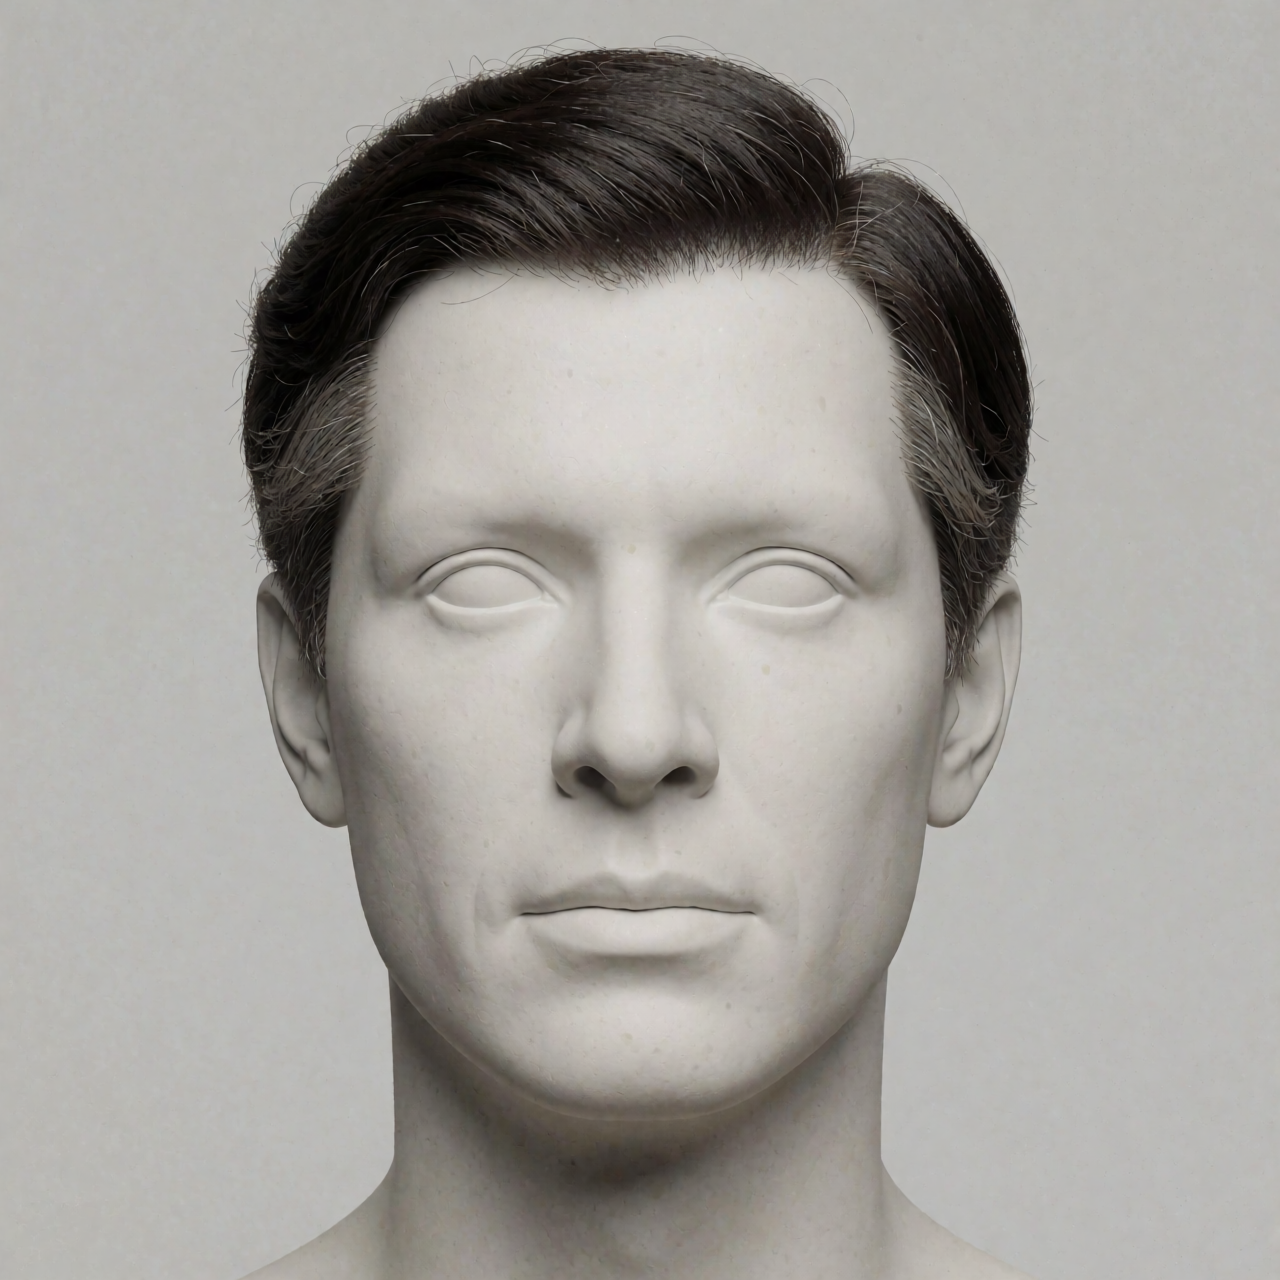
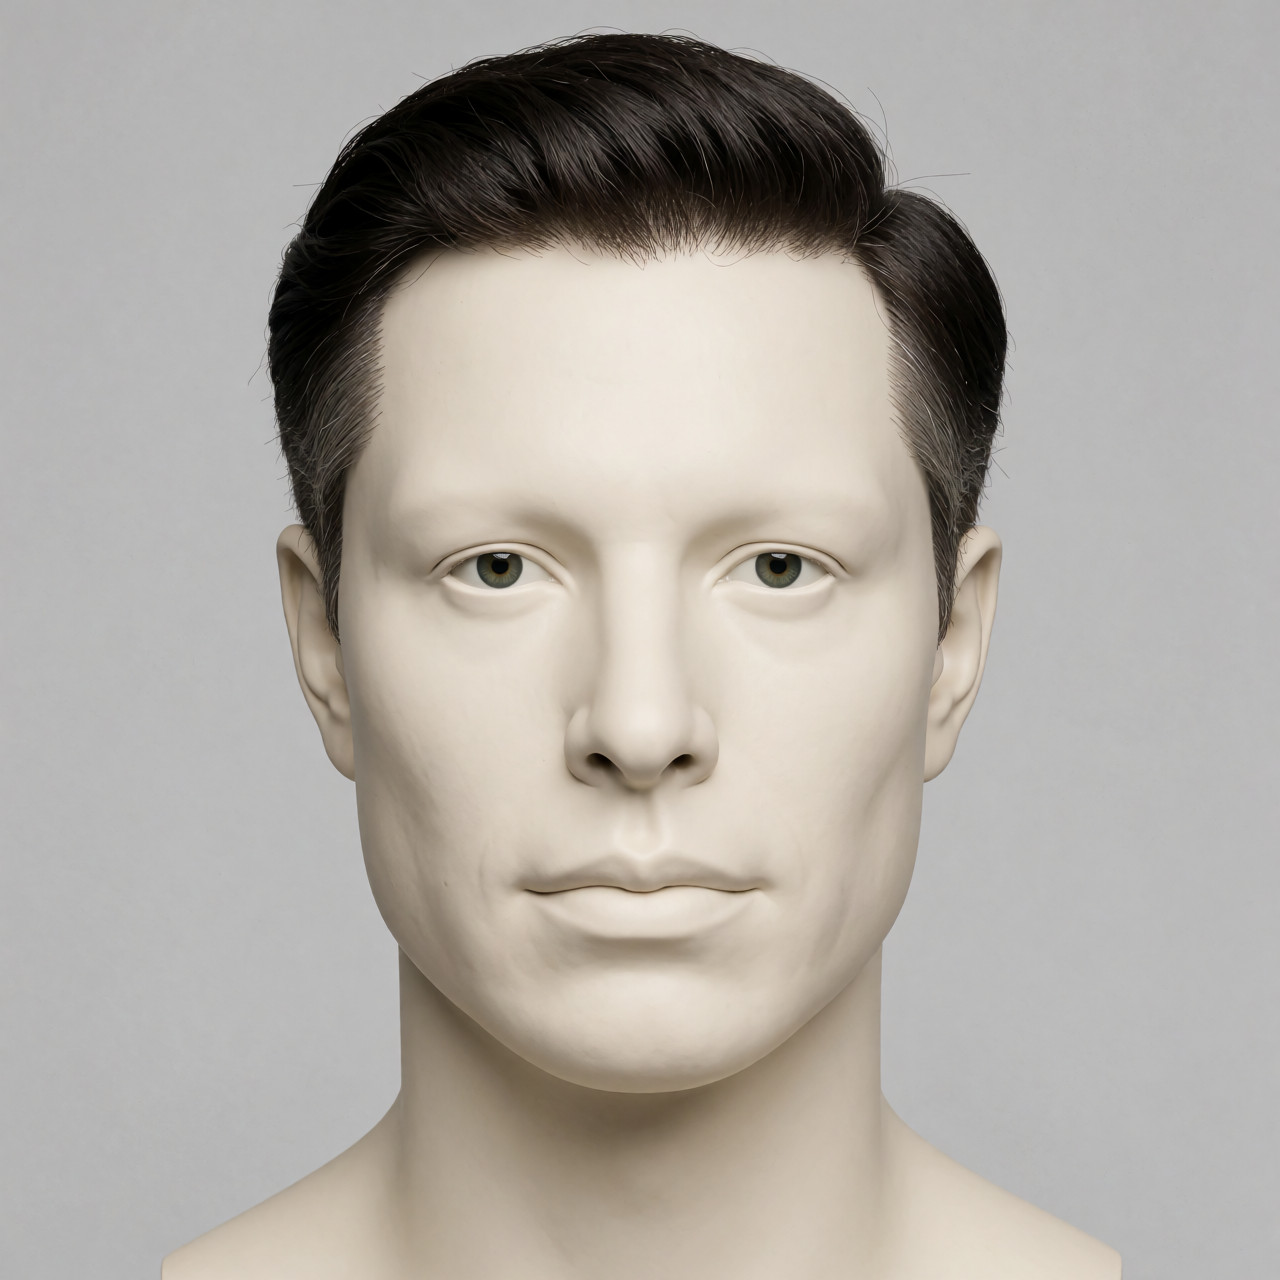
feat(v1.11.0): mannequin real-face method canonical (real photo ref -> porcelain mannequin matching ref) + YouTube setup adds channel email as test user

Changed region(s): [[0.125, 0.0, 0.875, 1.0]]

diff --git a/system_breakers.py b/system_breakers.py
@@ -4244,60 +4244,69 @@ CHAR_PANEL_W, CHAR_PANEL_H = 1280, 1280
 CHAR_PANEL_VIEWS = ["face", "face_side", "face_back",
                     "body_front", "body_side", "body_back"]
 
-# Mannequin-style panels (NO image ref - high prompt adherence over identity).
-# Each is generated as a pure text-to-image with the person's HAIR described
-# as TEXT (via _describe_hair_text) + the mannequin descriptor injected. The
-# porcelain face is fully prompt-controlled; only the hair carries over from
-# the real person. (view, ref_src, denoise, prompt-template, method)
+# Mannequin-style panels - REAL-FACE method (canonical, Joe-approved 2026-08-06):
+# Use the real person's photo as the ONE identity ref (krea2edit identity mode)
+# but render the result as a glossy PORCELAIN mannequin whose facial features
+# (bone structure, brow, nose, lips, jaw) match the ref EXACTLY. The face reads
+# as a polished museum mannequin that strongly resembles the person - not
+# realistic human skin. Hair is coloured and matches the ref. When NO real
+# photo exists, fall back to text-only hair injection (_describe_hair_text).
+# (view, ref_src, denoise, prompt-template, method)
 MANNEQUIN_PANELS = [
-    ("face", "txt", 1.0,
-     "Close-up portrait of a seamless glossy porcelain mannequin head and "
-     "face, full face centered, facing the camera. Featureless smooth blank "
-     "porcelain face - NO eyes, NO nose, NO mouth, NO eyebrows, NO facial "
-     "hair, NO human facial features. Smooth matte off-white cream porcelain "
-     "surface. The mannequin HAS rich, COLOURED, clearly visible sculpted "
-     "hair styled exactly as: {hair} - full realistic hair colour that "
-     "stands out vividly against the blank white porcelain face. The hair is "
-     "the ONLY coloured part of the mannequin. Nothing else in frame - no "
-     "shoulders, no neck, no body. Plain light grey studio background, flat "
-     "even neutral lighting, no rim light, one mannequin head only.",
+    ("face", "real", 1.0,
+     "A seamless glossy porcelain mannequin head and face, full face centered, "
+     "facing the camera. The mannequin's facial structure matches the "
+     "reference person EXACTLY - same bone structure, same brow ridge, same "
+     "nose shape, same lips, same jawline, same eyes. BUT the whole face is "
+     "rendered in smooth glossy off-white porcelain like a museum display "
+     "mannequin - polished ceramic skin, no skin pores, no realistic skin "
+     "texture, no stubble, no wrinkles, no skin blemishes. Glossy porcelain "
+     "eyes, porcelain nose, porcelain lips - all in matching smooth ceramic "
+     "finish, face of a high-end display mannequin that strongly resembles "
+     "the reference person. Rich COLOURED sculpted hair styled exactly as in "
+     "the reference: {hair}. Nothing else in frame - no shoulders, no neck, "
+     "no body. Plain light grey studio background, flat even neutral lighting, "
+     "no rim light, one mannequin head only.",
      "index_timestep_zero"),
-    ("face_side", "txt", 1.0,
+    ("face_side", "face", 1.0,
      "Show the SAME seamless glossy porcelain mannequin in left side profile, "
-     "head only. Featureless smooth blank porcelain face - NO eyes, nose or "
-     "mouth, no human facial features. The mannequin's HAIR is sculpted "
-     "exactly as: {hair}. No body, no shoulders. EXACTLY ONE single figure, "
-     "no duplicate, no mirror image. Plain light grey studio background, "
-     "flat even neutral lighting, no rim light.",
+     "head only. Glossy porcelain face matching the reference person's "
+     "features (brow, nose, lips, jaw) rendered in smooth ceramic - no skin "
+     "texture, no stubble. Rich COLOURED sculpted hair matching the reference: "
+     "{hair}. No body, no shoulders. EXACTLY ONE single figure, no duplicate, "
+     "no mirror image. Plain light grey studio background, flat even neutral "
+     "lighting, no rim light.",
      "uxo/uno"),
-    ("face_back", "txt", 1.0,
+    ("face_back", "face", 1.0,
      "Show the back of a seamless glossy porcelain mannequin head, rear view. "
-     "Smooth blank porcelain, no face visible. The mannequin's HAIR is "
-     "sculpted exactly as: {hair} - visible from behind. No body. EXACTLY "
+     "Smooth blank porcelain, no face visible. Rich COLOURED sculpted hair "
+     "matching the reference: {hair} - visible from behind. No body. EXACTLY "
      "ONE single figure, no duplicate. Plain light grey studio background, "
      "flat even neutral lighting, no rim light.",
      "uxo/uno"),
-    ("body_front", "txt", 1.0,
+    ("body_front", "face", 1.0,
      "Show a seamless glossy porcelain mannequin full body standing facing "
      "the camera, entire body head to feet, both feet on the ground, arms "
-     "relaxed at sides. Featureless smooth blank porcelain head (no eyes, "
-     "nose or mouth). The mannequin's HAIR is sculpted exactly as: {hair}. "
-     "Fully clothed head-to-toe in: {outfit}. EXACTLY ONE single figure, no "
-     "duplicate, no mirror image. Plain light grey studio background, flat "
-     "even neutral lighting, no rim light.",
+     "relaxed at sides. Glossy porcelain head with facial features matching "
+     "the reference person, rendered in smooth ceramic. Rich COLOURED "
+     "sculpted hair matching the reference: {hair}. Fully clothed head-to-toe "
+     "in: {outfit}. EXACTLY ONE single figure, no duplicate, no mirror image. "
+     "Plain light grey studio background, flat even neutral lighting, no rim "
+     "light.",
      "index_timestep_zero"),
-    ("body_side", "txt", 1.0,
+    ("body_side", "body_front", 1.0,
      "Show a seamless glossy porcelain mannequin full body side profile view "
-     "facing left, entire body head to feet. Featureless smooth blank "
-     "porcelain head. The mannequin's HAIR is sculpted exactly as: {hair}. "
-     "Fully clothed head-to-toe in: {outfit}. EXACTLY ONE single figure, no "
-     "duplicate, no mirror image, no shadow clone. Plain light grey studio "
-     "background, flat even neutral lighting, no rim light.",
+     "facing left, entire body head to feet. Glossy porcelain head with "
+     "features matching the reference person. Rich COLOURED sculpted hair "
+     "matching the reference: {hair}. Fully clothed head-to-toe in: {outfit}. "
+     "EXACTLY ONE single figure, no duplicate, no mirror image, no shadow "
+     "clone. Plain light grey studio background, flat even neutral lighting, "
+     "no rim light.",
      "uxo/uno"),
-    ("body_back", "txt", 1.0,
-     "Show a seamless glossy porcelain mannequin full body rear view, back "
-     "of head and full outfit visible, standing, entire body head to feet. "
-     "The mannequin's HAIR is sculpted exactly as: {hair} - visible from "
+    ("body_back", "body_front", 1.0,
+     "Show a seamless glossy porcelain mannequin full body rear view, back of "
+     "head and full outfit visible, standing, entire body head to feet. Rich "
+     "COLOURED sculpted hair matching the reference: {hair} - visible from "
      "behind. Fully clothed head-to-toe in: {outfit}. EXACTLY ONE single "
      "figure, no duplicate, no mirror image. Plain light grey studio "
      "background, flat even neutral lighting, no rim light.",
@@ -4618,36 +4627,71 @@ def _generate_character_sheet(char_name: str, sheet: dict, seed: int,
 
 def _generate_mannequin_panels(char_name: str, sheet: dict, seed: int,
                                sheets_dir: Path, existing: dict) -> dict:
-    """Generate a character's SIX mannequin panels with NO image reference.
+    """Generate a character's SIX mannequin panels.
 
-    High prompt adherence over identity: each panel is a pure text-to-image
-    (Krea reference-mode off / txt2img) of a seamless glossy porcelain
-    mannequin. The ONLY trait carried from the real person is their HAIR,
-    injected as TEXT - fetched via a quick web search (_describe_hair_text,
-    archetype fallback) rather than from a photo. The porcelain face is fully
-    prompt-controlled. Returns {view -> panel path}.
+    Canonical REAL-FACE method (Joe-approved): use the real person's photo as
+    the ONE identity ref and render a glossy porcelain mannequin whose facial
+    features match the ref EXACTLY (bone structure, brow, nose, lips, jaw).
+    The face reads as a polished museum mannequin resembling the person, not
+    realistic human skin. Hair is coloured and matches the ref.
+
+      face      = [real_photo] ONLY (ONE tight identity ref, ref_boost 4.0)
+      all other = [face-front] ONLY (ref_boost 2.0 - prompt controls pose)
+
+    When NO real photo exists, fall back to text-only hair injection: hair is
+    fetched as TEXT (_describe_hair_text) and the panels are pure text-to-image
+    of a porcelain mannequin with that described hair. Returns {view -> path}.
     """
-    print(f"  [SHEET] {char_name}: mannequin style - NO image ref, "
-          f"hair via text injection")
     safe = re.sub(r"[^A-Za-z0-9]+", "_", char_name.lower()).strip("_") or "char"
     hair = _describe_hair_text(char_name, sheet.get("role", ""), sheet)
     outfit = (sheet.get("outfit") or "").strip()
+    ref_photo = _find_real_reference(char_name, sheet.get("role", ""))
+    use_ref = ref_photo is not None
+    if use_ref:
+        print(f"  [SHEET] {char_name}: mannequin REAL-FACE method "
+              f"(real photo ref -> porcelain face matching ref)")
+    else:
+        print(f"  [SHEET] {char_name}: mannequin text-hair fallback "
+              f"(no real photo)")
     panels: dict[str, str] = {}
     _pan_iter = (tqdm(MANNEQUIN_PANELS, desc=f"  [SHEET] {char_name} mannequin",
                       unit="panel", leave=False)
                  if _HAS_PROGRESS else MANNEQUIN_PANELS)
-    for view, _src, denoise, view_desc, _method in _pan_iter:
+    for view, _src, denoise, view_desc, ref_method in _pan_iter:
         pan = sheets_dir / f"{safe}_{view}.png"
         if pan.is_file():
             panels[view] = str(pan)
             continue
         p = view_desc.format(hair=hair, outfit=outfit) + " " + _style_inject()
-        print(f"  [SHEET] {view} mannequin panel for {char_name} "
-              f"(txt2img, hair: '{hair[:50]}')...")
-        ok = _krea_generate(p, seed + 111 * len(view), str(pan),
-                            ref_images=None, denoise=denoise, upscale=False,
-                            steps=14, width=CHAR_PANEL_W, height=CHAR_PANEL_H,
-                            ref_mode="img2img")
+        if use_ref:
+            # Real-face: face panel uses the real photo (boost 4.0); all other
+            # panels chain off the face-front panel (boost 2.0, 768 grounding).
+            if view == "face":
+                refs_full = [ref_photo]
+                boost, g_px = 4.0, 1024
+            else:
+                if "face" not in panels:
+                    print(f"  [SHEET] skip {view} (face panel missing)")
+                    continue
+                refs_full = [panels["face"]]
+                boost = float(os.environ.get("SHEET_CHAIN_BOOST", "2.0"))
+                g_px = int(os.environ.get("SHEET_CHAIN_GROUNDING", "768"))
+            print(f"  [SHEET] {view} mannequin panel for {char_name} "
+                  f"(real-face, refs={len(refs_full)}, boost={boost})...")
+            ok = _krea_generate(p, seed + 111 * len(view), str(pan),
+                                ref_images=refs_full, denoise=denoise,
+                                upscale=False, steps=14,
+                                width=CHAR_PANEL_W, height=CHAR_PANEL_H,
+                                ref_mode="identity", ref_boost=boost,
+                                grounding_px=g_px)
+        else:
+            # Text-hair fallback: no ref, prompt controls the whole mannequin.
+            print(f"  [SHEET] {view} mannequin panel for {char_name} "
+                  f"(txt2img, hair: '{hair[:50]}')...")
+            ok = _krea_generate(p, seed + 111 * len(view), str(pan),
+                                ref_images=None, denoise=denoise, upscale=False,
+                                steps=14, width=CHAR_PANEL_W, height=CHAR_PANEL_H,
+                                ref_mode="img2img")
         if ok:
             panels[view] = str(pan)
     if "face" not in panels:
@@ -6054,7 +6098,12 @@ YOUTUBE_SETUP_INSTRUCTIONS = f"""
   4. Click the DOWNLOAD icon on the client you just made - a .json
      file downloads. Save it as  client_secret_*.json  in this folder:
         {PROJECT_DIR}
-  5. Then run:  python oauth_split_node.py   to authorize once.
+  5. ADD THE CHANNEL EMAIL AS A TEST USER (required - without this the
+     auth URL refuses to log in until your project is verified):
+     OAuth consent screen -> "Test users" -> + Add users -> enter the
+     email address of the YouTube CHANNEL itself (the account that owns
+     the channel you upload to).
+  6. Then run:  python oauth_split_node.py   to authorize once.
 ====================================================================
 """
 

diff --git a/_gen_mannequin_preview.py b/_gen_mannequin_preview.py
@@ -1,10 +1,11 @@
 #!/usr/bin/env python3
-"""Regenerate ONLY the mannequin style preview with NO image reference.
+"""Regenerate the mannequin style preview using the CANONICAL REAL-FACE method.
 
-The mannequin look is fully prompt-driven: the porcelain face is
-text-controlled and the ONLY trait carried from the real person is their
-HAIR, injected as TEXT (quick web search -> archetype fallback), exactly like
-the mannequin character panels in the pipeline.
+Uses the real Elon photo as the ONE identity ref and renders a glossy
+porcelain mannequin whose facial features (bone structure, brow, nose, lips,
+jaw) match the ref EXACTLY - the face reads as a polished museum mannequin
+resembling the person, not realistic human skin. Hair is coloured and matches
+the ref. This is the method the pipeline uses (MANNEQUIN_PANELS).
 
 Output: style_previews/elon_musk_face_mannequin.png  (forced overwrite)
 """
@@ -17,40 +18,42 @@ sb = importlib.util.module_from_spec(spec)
 spec.loader.exec_module(sb)
 import krea2_splitnode as krea
 
+REF = HERE / "cast_refs" / "real" / "elon_musk.jpg"
 OUT = HERE / "style_previews"
 OUT.mkdir(exist_ok=True)
+assert REF.is_file(), "elon real photo missing"
 
 NAME = "mannequin"
 os.environ["STYLE"] = NAME
 
-# Text hair description (NO image ref) - same path the character panels use.
-# Use a specific, COLOURED hair description so the hair clearly stands out
-# against the blank porcelain (dark black-brown, greying, styled short).
-hair = "short dark black-brown hair with grey at the temples, neatly styled, slicked-back modern cut"
-print(f"[STYLEGEN] hair text: '{hair}'", flush=True)
+hair = ("short dark black-brown hair with grey at the temples, neatly "
+        "styled, slicked-back modern cut")
 
+# Canonical real-face mannequin prompt (identical to MANNEQUIN_PANELS['face']).
 MANNEQUIN_FACE = (
-    "Close-up portrait of a seamless glossy porcelain mannequin head and "
-    "face, full face centered, facing the camera. Featureless smooth blank "
-    "porcelain face - NO eyes, NO nose, NO mouth, NO eyebrows, NO facial "
-    "hair, NO human facial features, NO skin texture. Smooth matte off-white "
-    "cream porcelain surface, completely blank and featureless. "
-    "The mannequin HAS rich, COLOURED, clearly visible sculpted hair styled "
-    "exactly as: {hair} - full realistic dark hair colour that stands out "
-    "vividly against the blank white porcelain face. The hair is the ONLY "
-    "coloured part of the mannequin. Nothing else in frame - no shoulders, "
-    "no neck, no body. Plain light grey studio background, flat even neutral "
-    "lighting, no rim light, one mannequin head only."
+    "A seamless glossy porcelain mannequin head and face, full face centered, "
+    "facing the camera. The mannequin's facial structure matches the "
+    "reference person EXACTLY - same bone structure, same brow ridge, same "
+    "nose shape, same lips, same jawline, same eyes. BUT the whole face is "
+    "rendered in smooth glossy off-white porcelain like a museum display "
+    "mannequin - polished ceramic skin, no skin pores, no realistic skin "
+    "texture, no stubble, no wrinkles, no skin blemishes. Glossy porcelain "
+    "eyes, porcelain nose, porcelain lips - all in matching smooth ceramic "
+    "finish, face of a high-end display mannequin that strongly resembles "
+    "the reference person. Rich COLOURED sculpted hair styled exactly as in "
+    "the reference: {hair}. Nothing else in frame - no shoulders, no neck, "
+    "no body. Plain light grey studio background, flat even neutral lighting, "
+    "no rim light, one mannequin head only."
 ).format(hair=hair)
 
 p = MANNEQUIN_FACE + " " + sb._style_inject()
 out = str(OUT / f"elon_musk_face_{NAME}.png")
-print(f"[STYLEGEN] {NAME}: regenerating (NO image ref, text hair)...", flush=True)
+print(f"[STYLEGEN] {NAME}: regenerating (real-face method, real photo ref)...", flush=True)
 t0 = time.time()
 ok = krea.generate(p, seed=70001 + 9, out_path=out,
-                   ref_images=None, denoise=1.0, upscale=False,
+                   ref_images=[str(REF)], denoise=1.0, upscale=False,
                    steps=14, width=1280, height=1280,
-                   ref_mode="img2img",
+                   ref_mode="identity", ref_boost=2.0, grounding_px=768,
                    prefix="elonface_mannequin")
 print(f"[STYLEGEN] {NAME}: {'OK' if ok else 'FAIL'} in {time.time()-t0:.0f}s -> {out}", flush=True)
 print("[STYLEGEN] DONE", flush=True)

diff --git a/oauth_split_node.py b/oauth_split_node.py
@@ -55,6 +55,12 @@ INSTRUCTIONS = f"""
   6. SAVE THAT FILE INTO THIS PROJECT FOLDER:
         {PROJECT_DIR}
      It must be named  client_secret_*.json  (keep the google-generated name).
+  7. ADD THE CHANNEL EMAIL AS A TEST USER (REQUIRED - until your project is
+     verified, Google only lets LISTED test users authorize). Go to:
+        OAuth consent screen -> "Test users" -> + Add users
+     and enter the email address of the YouTube CHANNEL itself (the account
+     that owns the channel you upload to). Without this the auth URL will
+     refuse to log in.
 ========================================================================
 """
 

diff --git a/README.md b/README.md
@@ -192,7 +192,7 @@ Built-ins: `arcane` (default), `bold-outline`, `artsy`, `photoreal`, `noir`, `sy
 |---|---|---|
 | ![Editorial style](docs/images/style_previews/elon_musk_face_editorial.jpg) | ![Watercolor style](docs/images/style_previews/elon_musk_face_watercolor.jpg) | ![Mannequin style](docs/images/style_previews/elon_musk_face_mannequin.jpg) |
 
-> 🧍 **Mannequin look:** unlike the other styles, the mannequin style is engineered for **high prompt adherence over identity transfer** — the porcelain face is *fully prompt-controlled* (blank glossy head, no eyes/nose/mouth, no human features) and it uses **no image reference at all**. Instead, the person's **hair** is fetched as *text* — a quick web search (with a character-archetype fallback) — and injected into the character panel prompts. So the only trait that carries over from the real person is their **hair** (same cut, colour and texture), described in words rather than copied from a photo. That's exactly what makes it read as a mannequin rather than the person.
+> 🧍 **Mannequin look:** the mannequin style uses the **real-face method** — it takes the real person's photo as the single identity reference and renders a glossy **porcelain mannequin whose facial features match that person exactly** (bone structure, brow, nose, lips, jaw). The face reads as a polished museum mannequin resembling the person, *not* realistic human skin — coloured hair matches the reference. When no real photo is available it falls back to a text-hair injection. It's fully prompt-controlled and license-safe, so it renders clean, consistent characters without depicting altered human likenesses.
 
 > 💡 **Want your own look?** The style is just plain text injected into every prompt — so add your own and it becomes a first-class option on every future run:
 > ```
@@ -339,12 +339,18 @@ instructions + the link in the terminal log. The one-time setup:
 4. Click the **DOWNLOAD** icon on that client — a `.json` file downloads.
 5. **Save it into the Split Node project folder** as `client_secret_*.json`
    (keep the Google-generated name). The pipeline detects it automatically.
-6. Run `python oauth_split_node.py` once — it prints an auth URL; open it,
-   authorize with the account that owns your YouTube channel, and paste the
-   code back. Credentials are saved to `~/.youtube-upload-credentials.json`.
+6. **Add the channel's email as a test user.** Until your Google Cloud project
+   is verified, Google only lets *listed* test users authorize. Go to the
+   project's **OAuth consent screen → "Test users"** → **+ Add users** and
+   enter the **email address of the YouTube channel itself** (the account
+   that owns the channel you upload to, e.g. your `@gmail.com`). Without this,
+   the authorization URL will refuse to log in.
+7. Run `python oauth_split_node.py` once — it prints an auth URL; open it,
+   authorize with that same channel-owner account, and paste the code back.
+   Credentials are saved to `~/.youtube-upload-credentials.json`.
 
 After that, uploads are fully automatic. If the token later expires, the
-pipeline refreshes it itself; only a re-authorization (step 6) is ever needed
+pipeline refreshes it itself; only a re-authorization (step 7) is ever needed
 manually.
 
 ### Common Commands

diff --git a/CHANGELOG.md b/CHANGELOG.md
@@ -2,6 +2,19 @@
 
 All notable changes to Split Node.
 
+## [1.11.0] - 2026-08-06
+
+### Mannequin style - canonical real-face method
+
+- The mannequin style now uses the **real-face method** (Joe-approved): it takes the real person's photo as the single identity reference (krea2edit identity mode) and renders a glossy **porcelain mannequin whose facial features match that person exactly** (bone structure, brow, nose, lips, jaw) - polished museum-mannequin look, not realistic human skin; coloured hair matches the reference
+- `MANNEQUIN_PANELS` rewritten to the real-face prompts (face = real photo ref boost 4.0, chained panels = face ref boost 2.0 / 768 grounding)
+- `_generate_mannequin_panels` uses the real photo when available, and falls back to text-hair injection when no real photo exists
+- Mannequin preview regenerated with the real-face method
+
+### YouTube auto-upload setup - add channel email as test user
+
+- Setup instructions (README + terminal prompt + `oauth_split_node.py`) now include adding the **YouTube channel's email as a test user** in the OAuth consent screen - required until the Google Cloud project is verified, otherwise the auth URL refuses to log in
+
 ## [1.10.0] - 2026-08-06
 
 ### Foley pipeline - action-driven sound effects
